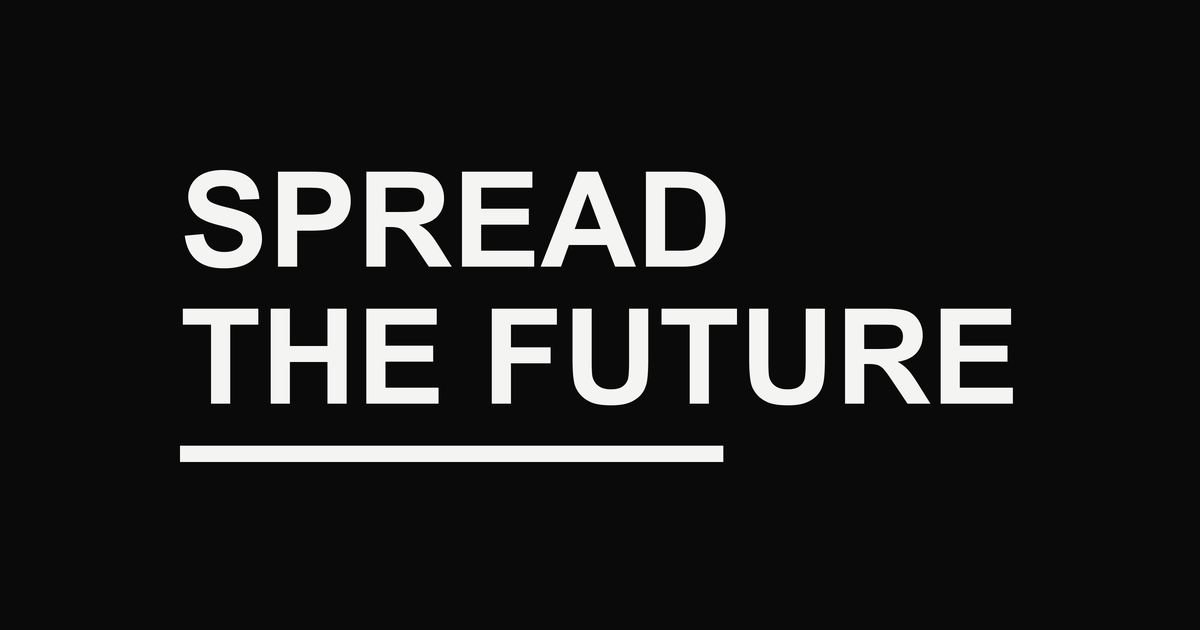
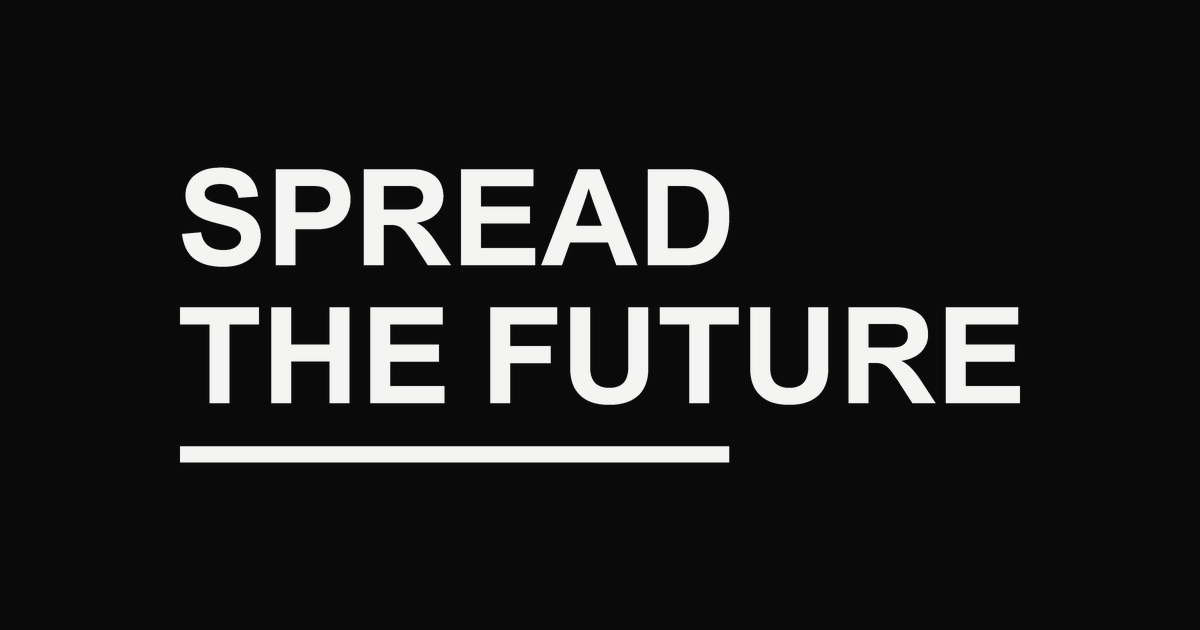
Update Open Graph image URL to include versioning for cache busting

diff --git a/credits/index.html b/credits/index.html
@@ -12,7 +12,7 @@
 <meta property="og:title" content="Credits &middot; SPREAD THE FUTURE">
 <meta property="og:description" content="A podcast where we explore possible tomorrows. We believe in a future you can't fully predict: the unexpected, the improbable, and the one worth spreading.">
 <meta property="og:url" content="https://spreadthefuture.com/credits/">
-<meta property="og:image" content="https://spreadthefuture.com/assets/og-image.png">
+<meta property="og:image" content="https://spreadthefuture.com/assets/og-image.png?v=2">
 <meta property="og:image:width" content="1200">
 <meta property="og:image:height" content="630">
 <meta property="og:image:alt" content="The SPREAD THE FUTURE wordmark">

diff --git a/about/index.html b/about/index.html
@@ -12,7 +12,7 @@
 <meta property="og:title" content="About &middot; SPREAD THE FUTURE">
 <meta property="og:description" content="A podcast where we explore possible tomorrows. We believe in a future you can't fully predict: the unexpected, the improbable, and the one worth spreading.">
 <meta property="og:url" content="https://spreadthefuture.com/about/">
-<meta property="og:image" content="https://spreadthefuture.com/assets/og-image.png">
+<meta property="og:image" content="https://spreadthefuture.com/assets/og-image.png?v=2">
 <meta property="og:image:width" content="1200">
 <meta property="og:image:height" content="630">
 <meta property="og:image:alt" content="The SPREAD THE FUTURE wordmark">

diff --git a/index.html b/index.html
@@ -12,7 +12,7 @@
 <meta property="og:title" content="SPREAD THE FUTURE">
 <meta property="og:description" content="A podcast where we explore possible tomorrows. We believe in a future you can't fully predict: the unexpected, the improbable, and the one worth spreading.">
 <meta property="og:url" content="https://spreadthefuture.com/">
-<meta property="og:image" content="https://spreadthefuture.com/assets/og-image.png">
+<meta property="og:image" content="https://spreadthefuture.com/assets/og-image.png?v=2">
 <meta property="og:image:width" content="1200">
 <meta property="og:image:height" content="630">
 <meta property="og:image:alt" content="The SPREAD THE FUTURE wordmark">
